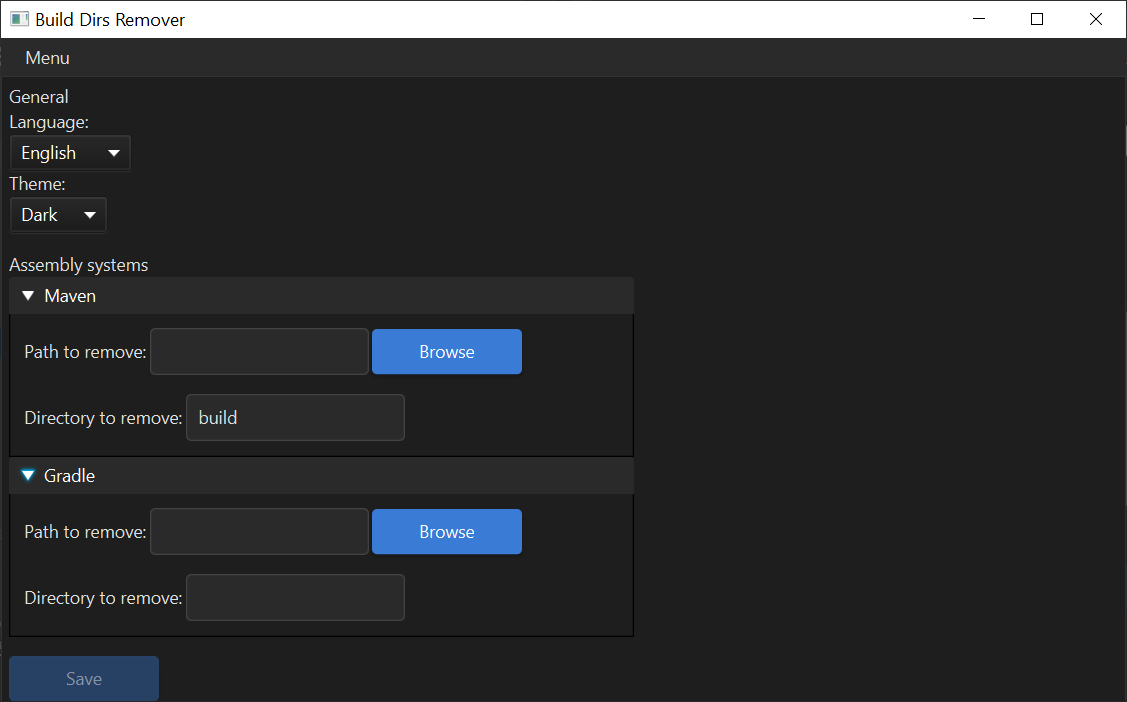
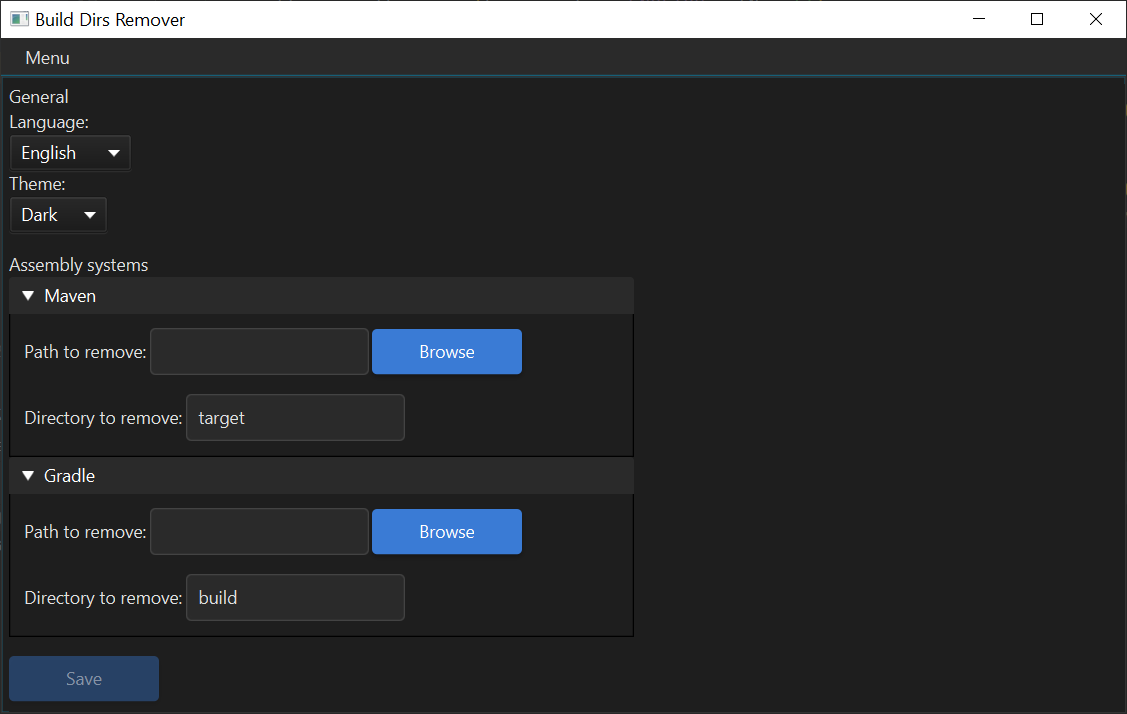
fix: fixed dir to remove for default BuildDirsRemoverProperties

diff --git a/src/main/java/ru/mikemimike/builddirsremover/builder/BuildDirsRemoverBuilder.java b/src/main/java/ru/mikemimike/builddirsremover/builder/BuildDirsRemoverBuilder.java
@@ -22,7 +22,7 @@ public class BuildDirsRemoverBuilder {
         maven.setDirToRemove("target");
         BuildDirsRemoverProperties.BuildDirsRemover.Settings.AssemblySystem gradle =
                 new BuildDirsRemoverProperties.BuildDirsRemover.Settings.AssemblySystem();
-        maven.setDirToRemove("build");
+        gradle.setDirToRemove("build");
 
         settings.setAssemblySystems(
                 new HashMap<>(
